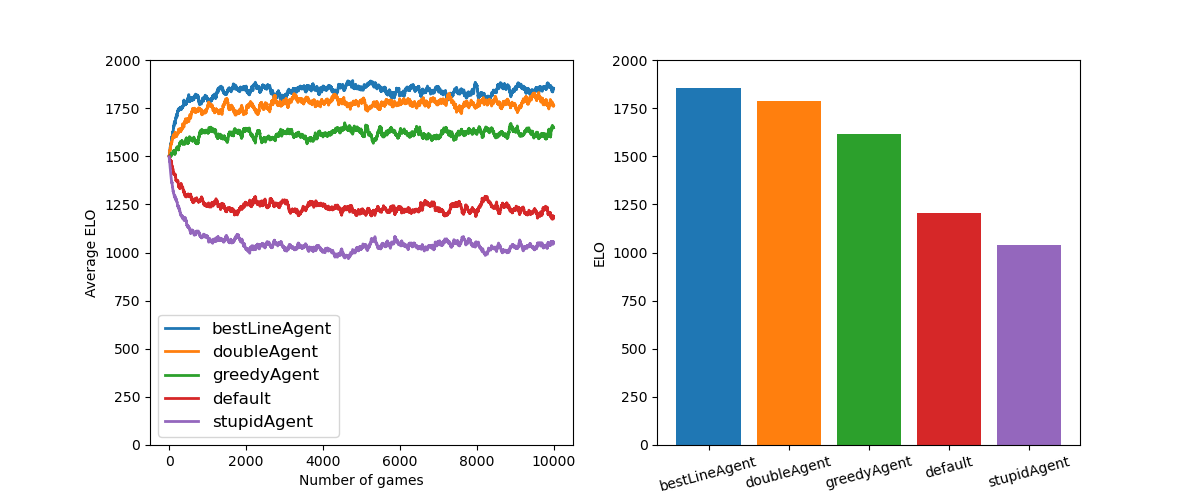
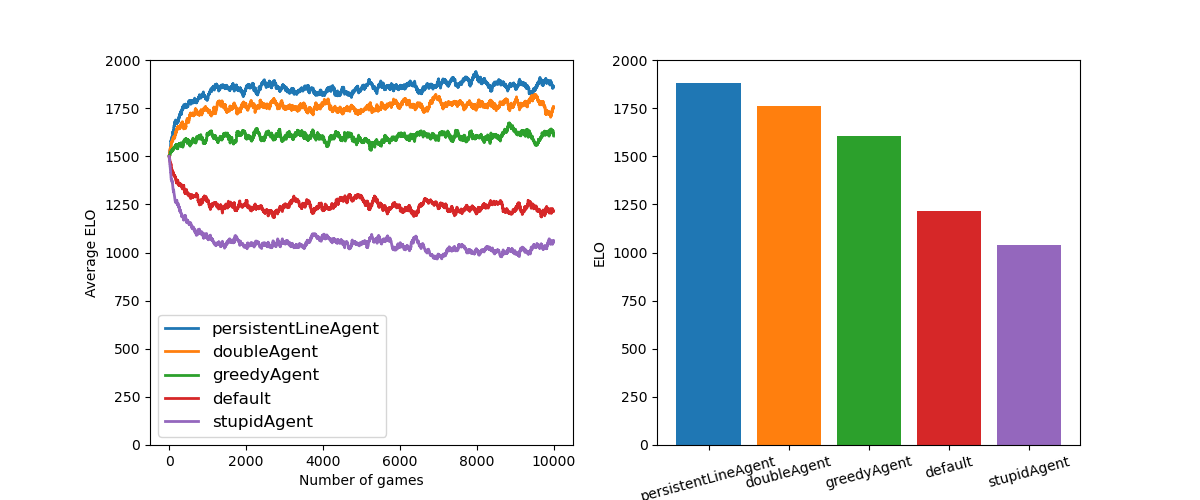
Documentation, plus basicAgentELO udpate
BasicAgentELO now uses the persistent line agent and ensures that it uses a maximum line length of 12. Added documentation reflecting this change (and added some more edits to other documentation).

diff --git a/experiments/basicAgentELOs.py b/experiments/basicAgentELOs.py
@@ -54,7 +54,10 @@ if __name__=='__main__':
     # are playing (e.g. it will be higher if an agent is good at going out fast). At the 
     # end, this experiment averages the ELO for each agent type.
     numEach = args.num_each
-    league.addAgentType(da.bestLineAgent, num2add=numEach)
+    league.addAgentType(da.persistentLineAgent, num2add=numEach)
+    for agent in league.agents:
+        # ensure that the persistent line agents look for long lines
+        agent.maxLineLength = 12
     league.addAgentType(da.doubleAgent, num2add=numEach)
     league.addAgentType(da.greedyAgent, num2add=numEach)
     league.addAgentType(da.dominoeAgent, num2add=numEach)

diff --git a/dominoes/agents/basicAgents.py b/dominoes/agents/basicAgents.py
@@ -130,12 +130,11 @@ class persistentLineAgent(bestLineAgent):
         self.maxLineLength = 12 # set this larger because the agent will keep a line for longer
 
     def initHand(self):
-        self.needsLineUpdate = True
+        super().initHand(self)
         self.hasBestLine = False
         
     def linePlayedOn(self):
-        # if my line was played on, then recompute sequences if it's my turn
-        self.needsLineUpdate = True
+        super().linePlayedOn(self)
         self.hasBestLine = False
         
     def selectPlay(self, gameEngine=None):

diff --git a/experiments/bestLineAgentELOs.py b/experiments/bestLineAgentELOs.py
@@ -42,7 +42,7 @@ savePath = Path(mainPath) / 'docs' / 'media'
 if __name__=='__main__':
     numPlayers = args.num_players
     highestDominoe = args.highest_dominoe
-    maxLineLengths = [6, 8, 10]
+    maxLineLengths = [6, 8, 10, 12]
     
     # create a league manager with the requested parameters
     league = lm.leagueManager(highestDominoe, numPlayers, shuffleAgents=True)

diff --git a/docs/multiplayerElo.md b/docs/multiplayerElo.md
@@ -55,9 +55,9 @@ The main result of the experiment is shown here:
 
 To summarize, ELO ratings stablize quickly (after about 1000 games, which 
 takes about 5 minutes of wall time on my computer), and indicate that the best
-hand-crafted policy is that of the best-line agent, followed closely by the 
-double agent. As expected, agents that play randomly or play dominoes with the 
-lowest point value perform worse than other agents. 
+hand-crafted policy is that of the persistent-line agent, followed closely by 
+the double agent. As expected, agents that play randomly or play dominoes with 
+the lowest point value perform worse than other agents. 
 
 ## Measuring ELO of best line agents with different maxLineLength parameters
 To measure how important the maxLineLength parameter is for the best line 

diff --git a/docs/basicPolicies.md b/docs/basicPolicies.md
@@ -9,6 +9,14 @@ I will explain and explore how to craft deep RL agents.
 For an analysis of how well these hand-crafted agents perform, see the 
 [documentation](multiplayerElo.md) discussing multi-player ELO. 
 
+Note: in my standard import of the agents package: 
+```
+from dominoes import agents as da
+```
+it is assumed that all agents are imported in the 
+[`__init__.py`](../dominoes/agents/__init__.py) file. If you want this to 
+work, make sure you add any agents you code to those imports.
+
 ## Coding a policy
 Coding a new policy requires overwriting the default dominoes agent functions.
 For simple agents (examples below), this only requires overwriting the methods
